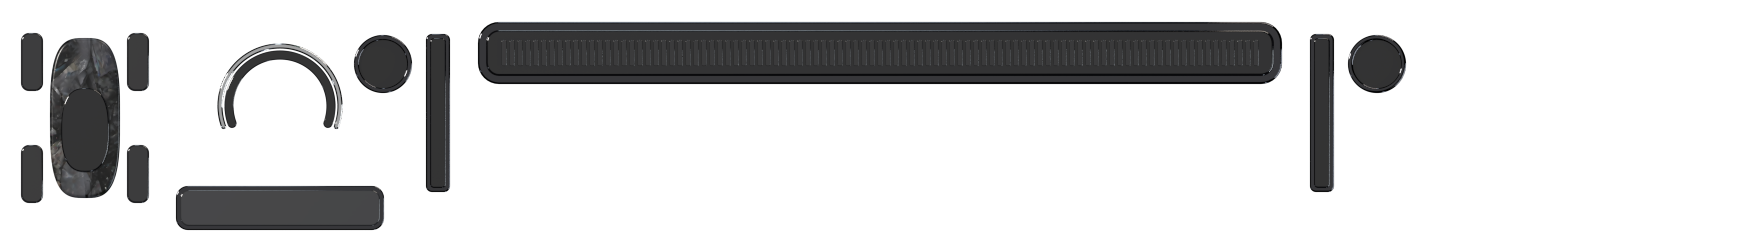
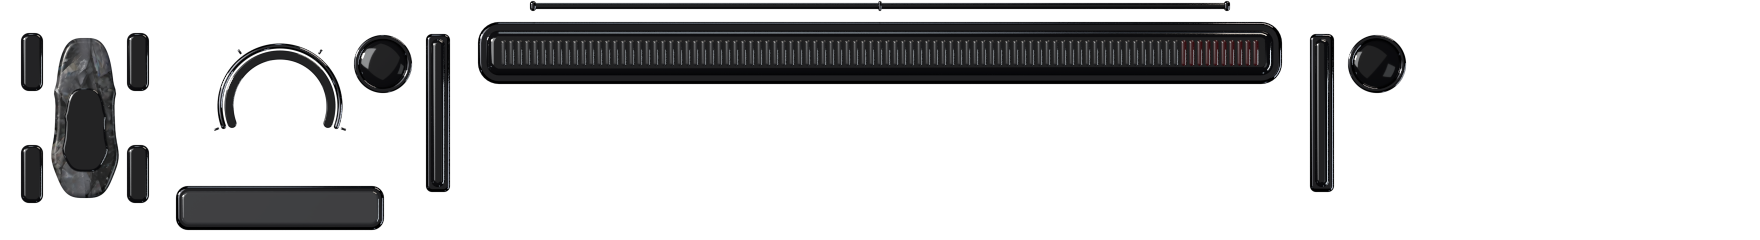
Gt7HoodPro: the second materials pass of the plate and the tile

diff --git a/assets/clusters/gt7_hood_pro/ASSETS.md b/assets/clusters/gt7_hood_pro/ASSETS.md
@@ -7,9 +7,9 @@ Built by `cargo run --release -p asset-forge -- --masters gt7_hood_pro build --s
 | File | Kind | Size | Bytes | Generator (recipe + seed) | Licence | Used for |
 |---|---|---|---|---|---|---|
 | (no runtime file: rendered into `plate_*.png`) | seamless forged-carbon texture | 4096x4096 | master | comfyui:gt7_hood_pro::CARBON (SDXL base 1.0 + refiner when installed, 1024², dpmpp_2m karras, half-offset seam repaint at denoise 0.55, 4x-UltraSharp) seed=73101 prompt="macro photograph of forged carbon fibre composite, large marbled chopped carbon flakes in graphite grey and black under clear resin, glossy, flat top-down, filling the whole frame, even soft studio light, seamless tileable texture, physically based material scan" | CreativeML Open RAIL++-M output (SDXL); MIT (asset-forge) | the colour and relief of the tyre diagram's car chip (one repeat per 320 px). Master `gt7_hood_pro_forged_carbon.png` |
-| `plate_0.png` | the band's static hardware: black-glass light bar on a polished plinth with 95 smoked LED lenses, carbon car chip with four tyre lenses, polished boost arc and its black-glass groove, two pedal slots, two telltale rings and the trip tile; covers x -880..880, y -100..140; key at -135° (sRGB, straight alpha) | 1760x240 | 72 KB | blender:hero (gt7_hood_pro::plate, Cycles 192 samples, ortho at 2 px per 4K px, box-filtered to 1:1; hero rig at power 0.55) | MIT (asset-forge) | drawn at full strength; the cluster cross-fades the azimuths with the virtual light. Master `plate/beauty_0.png` |
-| `plate_1.png` | the band's static hardware: black-glass light bar on a polished plinth with 95 smoked LED lenses, carbon car chip with four tyre lenses, polished boost arc and its black-glass groove, two pedal slots, two telltale rings and the trip tile; covers x -880..880, y -100..140; key at -160° (sRGB, straight alpha) | 1760x240 | 77 KB | blender:hero (gt7_hood_pro::plate, Cycles 192 samples, ortho at 2 px per 4K px, box-filtered to 1:1; hero rig at power 0.55) | MIT (asset-forge) | drawn at full strength; the cluster cross-fades the azimuths with the virtual light. Master `plate/beauty_1.png` |
-| `plate_2.png` | the band's static hardware: black-glass light bar on a polished plinth with 95 smoked LED lenses, carbon car chip with four tyre lenses, polished boost arc and its black-glass groove, two pedal slots, two telltale rings and the trip tile; covers x -880..880, y -100..140; key at -110° (sRGB, straight alpha) | 1760x240 | 76 KB | blender:hero (gt7_hood_pro::plate, Cycles 192 samples, ortho at 2 px per 4K px, box-filtered to 1:1; hero rig at power 0.55) | MIT (asset-forge) | drawn at full strength; the cluster cross-fades the azimuths with the virtual light. Master `plate/beauty_2.png` |
+| `plate_0.png` | the band's static hardware: black-glass light bar on a polished plinth with 95 smoked LED lenses, carbon car chip with four tyre lenses, polished boost arc and its black-glass groove, two pedal slots, two telltale rings and the trip tile; covers x -880..880, y -100..140; key at -135° (sRGB, straight alpha) | 1760x240 | 89 KB | blender:hero (gt7_hood_pro::plate, Cycles 192 samples, ortho at 2 px per 4K px, box-filtered to 1:1; hero rig at power 0.55) | MIT (asset-forge) | drawn at full strength; the cluster cross-fades the azimuths with the virtual light. Master `plate/beauty_0.png` |
+| `plate_1.png` | the band's static hardware: black-glass light bar on a polished plinth with 95 smoked LED lenses, carbon car chip with four tyre lenses, polished boost arc and its black-glass groove, two pedal slots, two telltale rings and the trip tile; covers x -880..880, y -100..140; key at -160° (sRGB, straight alpha) | 1760x240 | 103 KB | blender:hero (gt7_hood_pro::plate, Cycles 192 samples, ortho at 2 px per 4K px, box-filtered to 1:1; hero rig at power 0.55) | MIT (asset-forge) | drawn at full strength; the cluster cross-fades the azimuths with the virtual light. Master `plate/beauty_1.png` |
+| `plate_2.png` | the band's static hardware: black-glass light bar on a polished plinth with 95 smoked LED lenses, carbon car chip with four tyre lenses, polished boost arc and its black-glass groove, two pedal slots, two telltale rings and the trip tile; covers x -880..880, y -100..140; key at -110° (sRGB, straight alpha) | 1760x240 | 96 KB | blender:hero (gt7_hood_pro::plate, Cycles 192 samples, ortho at 2 px per 4K px, box-filtered to 1:1; hero rig at power 0.55) | MIT (asset-forge) | drawn at full strength; the cluster cross-fades the azimuths with the virtual light. Master `plate/beauty_2.png` |
 | `suggest_0.png` | the suggested-gear tile: red enamel on a black-chrome base; covers x 156..266, y -2..100; key at -135° (sRGB, straight alpha) | 110x102 | 5 KB | blender:hero (gt7_hood_pro::suggest, Cycles 192 samples, ortho at 2 px per 4K px, box-filtered to 1:1; hero rig at power 0.55) | MIT (asset-forge) | drawn at full strength; the cluster cross-fades the azimuths with the virtual light. Master `suggest/beauty_0.png` |
 | `suggest_1.png` | the suggested-gear tile: red enamel on a black-chrome base; covers x 156..266, y -2..100; key at -160° (sRGB, straight alpha) | 110x102 | 5 KB | blender:hero (gt7_hood_pro::suggest, Cycles 192 samples, ortho at 2 px per 4K px, box-filtered to 1:1; hero rig at power 0.55) | MIT (asset-forge) | drawn at full strength; the cluster cross-fades the azimuths with the virtual light. Master `suggest/beauty_1.png` |
 | `suggest_2.png` | the suggested-gear tile: red enamel on a black-chrome base; covers x 156..266, y -2..100; key at -110° (sRGB, straight alpha) | 110x102 | 5 KB | blender:hero (gt7_hood_pro::suggest, Cycles 192 samples, ortho at 2 px per 4K px, box-filtered to 1:1; hero rig at power 0.55) | MIT (asset-forge) | drawn at full strength; the cluster cross-fades the azimuths with the virtual light. Master `suggest/beauty_2.png` |
